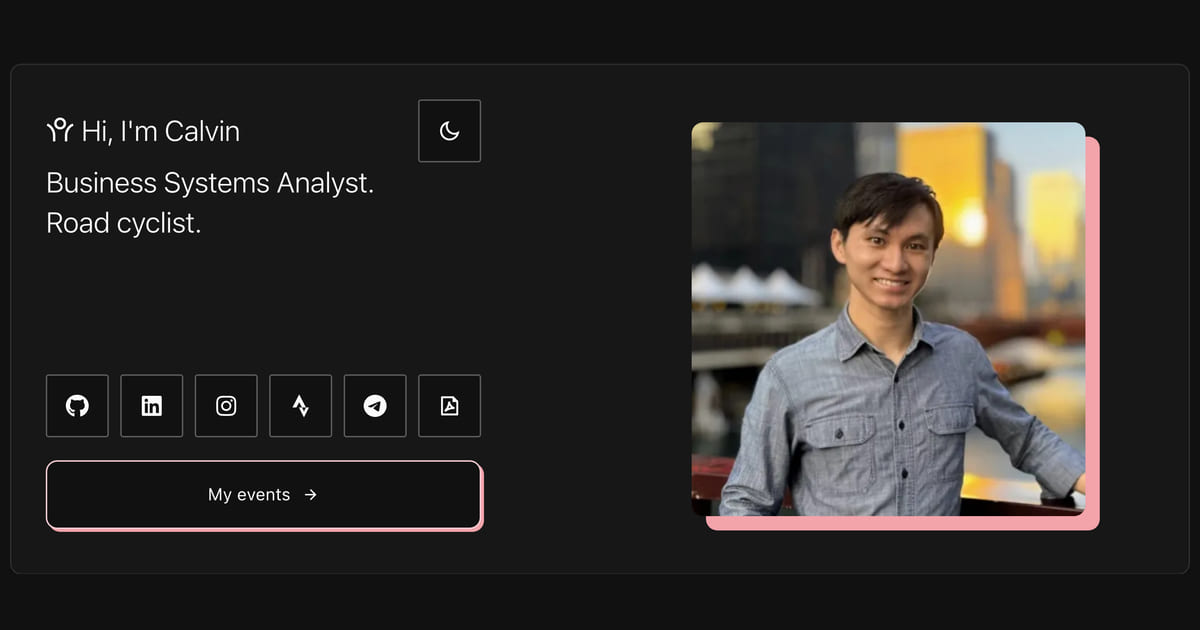
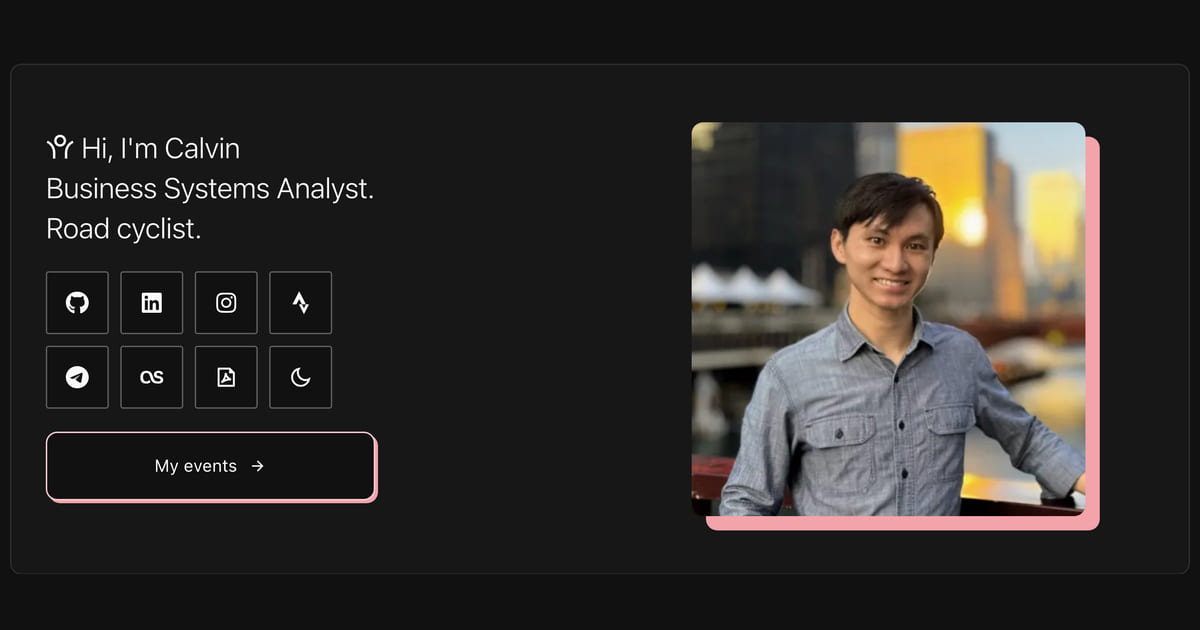
feat(home): lay the quiet controls out as a block, and give the toggle its cell
The theme control had no home on this page. Every other page carries it in a
banner header; this one has none by decision, so it sat on the greeting line —
and it could not hold that position. At `md` and up the copy column stretches and
the control landed on the column's right rail, but below `md` `.intro-type` is
`self-start` — load-bearing for the mobile hero, since stretching it drags the
scrim across the portrait, 97.55% of the photo veiled against 81.63% — so the row
is only as wide as the widest tagline and the control came to rest 74.5px short of
the rail everything else on the card shares. One control, two arrangements, and on
a phone it was aligned to a rail nothing else used.

It now sits with the other quiet controls, in a block laid out four cells to a row,
in the last cell.

THE FOUR-UP IS A GROUPING, NOT A COLUMN COUNT, and the distinction is the only
reason it is allowed. What `uno.config.ts` records and the geometry gate protects is
that no rule may GRANT this row a number of columns at a width — three media queries
once did, and a hand-tuned count against a text-relative box has to be re-tuned when
either side moves; it was wrong twice, and the second time sheared 136.84px of hero
copy at 320px and a 40px root. Nothing here reads a width: the cells are chunked
once, at every viewport and text size, and each row is still an ordinary wrapping
row whose minimum content width is one box. Swept at 320px from a 16px root to 40px:
[…]

diff --git a/tests/control-geometry.test.ts b/tests/control-geometry.test.ts
@@ -1317,23 +1317,51 @@ describe("the intro card's strip fits its column, whatever the reader's text siz
      * has grown a seventh box. The row assertions below would still pass in both cases —
      * a wrapping row is correct at any length — so nothing else here notices.
      */
-    it("holds one chip per destination, with the theme control outside it", () => {
-        const strip = chipStrip();
+    it("holds one cell per destination plus the preference, and the preference is last", () => {
         const NOT_RENDERED = new Set(["script", "style", "template", "link", "meta", "title"]);
-        const items = [...strip.children].filter((c) => !NOT_RENDERED.has(c.tagName.toLowerCase()));
-        expect(
-            items.map((el) => `<${el.tagName.toLowerCase()} class="${el.getAttribute("class")}">`),
-            "the strip must hold exactly one item per entry in `LINKS` and nothing else",
-        ).toHaveLength(LINKS.length);
+        const rows = chipRows().map(([el]) => [...el.children].filter((c) => !NOT_RENDERED.has(c.tagName.toLowerCase())));
+        const cells = rows.flat();
 
+        // ONE CELL PER DESTINATION, PLUS ONE. Derived from `LINKS` so a destination added or
+        // removed moves both sides at once; the `+ 1` is the preference and is named rather
+        // than absorbed, because it is the one cell that is not a destination.
+        expect(
+            cells.map((el) => `<${el.tagName.toLowerCase()} class="${el.getAttribute("class")}">`),
+            "the block must hold exactly one cell per entry in `LINKS`, plus the theme control, and nothing else",
+        ).toHaveLength(LINKS.length + 1);
+
+        /*
+         * THE PREFERENCE IS LAST, AND THAT POSITION IS THE ONLY THING MARKING IT OUT.
+         *
+         * It wears the same box as the destinations beside it, deliberately: the design system
+         * publishes this box as "a member of a set, where the marks are the vocabulary, and for
+         * a preference", the destinations are solid brand marks against its stroked UI mark, and
+         * it is a `button` where they are anchors. What it must never do is sit BETWEEN
+         * destinations — interleaved, the mark is the only thing left saying it is not one, and
+         * the reading a set gives its members would swallow it.
+         */
         const toggle = document.querySelector("#theme-toggle");
         expect(toggle, "the page must still carry a theme control").toBeTruthy();
         expect(
-            strip.contains(toggle),
-            "the theme control is back in the strip. It is a preference rather than a destination, "
-            + "and seven boxes of this size do not fit the copy column — the seventh wraps to a line "
-            + "of its own",
-        ).toBe(false);
+            cells.indexOf(toggle as Element),
+            "the theme control must be the LAST cell of the block. It is the one cell that is not "
+            + "a destination, and its position is what says so — interleaved among them, nothing "
+            + "but the mark distinguishes a preference from a place to go",
+        ).toBe(cells.length - 1);
+
+        /*
+         * NO ROW MAY OUTGROW THE FIRST. The rows are a GROUPING authored in the component —
+         * a fixed number of cells per row, applied at every width — and nothing here reads that
+         * number, so this asks the property instead: the first row is the widest the block gets.
+         * A row that grew past it would be the block silently re-flowing into a shape nobody
+         * chose, which is what a hand-tuned column count does when either side moves.
+         */
+        for (const [i, row] of rows.entries()) {
+            expect(
+                row.length,
+                `row ${i + 1} of the block holds ${row.length} cells against the first row's ${rows[0].length}`,
+            ).toBeLessThanOrEqual(rows[0].length);
+        }
     });
 
     /**
@@ -1444,36 +1472,60 @@ describe("the intro card's strip fits its column, whatever the reader's text siz
      * different page. Narrowing it here keeps the strip's own assertions (wrapping,
      * packing, the minimum-width bound) pointed at the box they were measured against.
      */
-    const chipStrip = () => {
+    /**
+     * EVERY ROW OF QUIET CONTROLS ON THIS PAGE, in document order.
+     *
+     * The quiet controls are laid out as a BLOCK of rows rather than as one row: the
+     * destinations are grouped a fixed number to a row and the preference takes the last
+     * cell. So there is no single "the strip" to find any more, and a helper that insisted
+     * on one would fail on a correct page — which is what the version this replaces did.
+     *
+     * Discovered as the parents of pinned chips, in document order, rather than by naming a
+     * class: this class has been renamed twice, and a gate keyed on a name certifies whatever
+     * it happens to find.
+     */
+    const chipRows = () => {
         const controls = elementsOf(pinned());
-        expect(controls.length, "no pinned-chip elements — every assertion about their strip would be vacuous").toBeGreaterThan(1);
+        expect(controls.length, "no pinned-chip elements — every assertion about their rows would be vacuous").toBeGreaterThan(1);
         const perParent = new Map<Element, Element[]>();
         for (const control of controls) {
             const parent = control.parentElement!;
             perParent.set(parent, [...(perParent.get(parent) ?? []), control]);
         }
-        /*
-         * A ROW IS A PARENT HOLDING MORE THAN ONE OF THEM, and the discrimination is not a
-         * convenience — it is the whole subject. Every argument below is about what a row of
-         * boxes does to the column that contains it, and a box that is ALONE in its parent has
-         * no row and no minimum-width claim to make. The theme control is exactly that: it
-         * wears the same box, sits on the greeting line opposite the identity, and is one item.
-         *
-         * Written as "the parent with more than one" rather than "the parent that is not the
-         * masthead", because a name is what rots — this class has been renamed twice — and
-         * because the property that matters really is the plurality. Exactly one such box may
-         * exist: two would mean "the strip" names more than one thing and every assertion below
-         * would cover whichever one it happened to find first, which is the failure mode the
-         * predecessor of this helper actually shipped.
-         */
-        const rows = [...perParent.entries()].filter(([, held]) => held.length > 1);
+        const rows = [...perParent.entries()];
+        expect(rows.length, "no parent holds a pinned chip — the block has stopped existing").toBeGreaterThan(0);
+        return rows;
+    };
+
+    /**
+     * ONE ROW STANDS FOR ALL OF THEM, AND THAT IS ASSERTED RATHER THAN ASSUMED.
+     *
+     * The arguments below — the row wraps, and it can never hold the copy column wider than
+     * one chip — are read out of the STYLESHEET and out of the chain of ancestors above the
+     * row. Both are decided by the row's class and by its parent, so rows that share a class
+     * and a parent are indistinguishable to every one of them, and checking each in turn would
+     * re-run the same resolution against the same inputs.
+     *
+     * So this returns the first row and PINS the premise: every row wears exactly the same
+     * class list and they are all siblings. Break either and the representative stops
+     * representing, and this fails rather than quietly covering one row of several — which is
+     * the failure mode the single-row helper this replaces actually shipped.
+     */
+    const chipStrip = () => {
+        const rows = chipRows().map(([el]) => el);
+        const classes = [...new Set(rows.map((el) => el.getAttribute("class") ?? ""))];
         expect(
-            rows.map(([el, held]) => `<${el.tagName.toLowerCase()} class="${el.getAttribute("class")}"> x${held.length}`),
-            "exactly one box on this page may hold a ROW of pinned chips. Zero means the strip has "
-            + "stopped being a row and every assertion below is vacuous; two means \"the strip\" names "
-            + "more than one box and the minimum-width argument covers only one of them",
+            classes,
+            "the rows of quiet controls do not all wear the same class, so the row checked below "
+            + "does not stand for the others and each would need resolving on its own",
         ).toHaveLength(1);
-        return rows[0][0];
+        const parents = [...new Set(rows.map((el) => el.parentElement))];
+        expect(
+            parents.map((p) => `<${p?.tagName.toLowerCase()} class="${p?.getAttribute("class")}">`),
+            "the rows of quiet controls are not siblings, so the chain of ancestors charged below "
+            + "is not the chain every row pays",
+        ).toHaveLength(1);
+        return rows[0];
     };
 
     /**

diff --git a/src/content/site.ts b/src/content/site.ts
@@ -93,6 +93,11 @@ export const LINKS: {
 }, {
     link: "https://t.me/calvindotsg/", logo: "fa6-brands:telegram", name: "Telegram Profile"
 }, {
+    // The one entry that is neither work nor sport. The rest of this list says what
+    // Calvin does; this says what he listens to, and it is a RECORD rather than a feed,
+    // which is the same shape as everything else this site publishes.
+    link: "https://last.fm/user/geektech510", logo: "fa6-brands:lastfm", name: "Last.fm Profile"
+}, {
     // "View", not "Download": the file opens in a tab rather than saving.
     link: "/resume.pdf", logo: "ri:file-pdf-2-line", name: "View résumé (PDF)"
 },];

diff --git a/tests/mobile-hero-contrast.test.ts b/tests/mobile-hero-contrast.test.ts
@@ -167,7 +167,7 @@ describe("mobile hero legibility", () => {
             + "block stretches to what it holds and the scrim is a pseudo-element of it, so a "
             + "full-width control inside drags the veil across the portrait").toBeNull();
 
-        const grounded = [wall!, ...document.querySelectorAll("main .link-strip a")];
+        const grounded = [wall!, ...document.querySelectorAll("main .link-strip a, main .link-strip button")];
         expect(grounded.length, "no control sits outside the scrim — this assertion would be vacuous")
             .toBeGreaterThan(1);
         const sheetRules = parseRules(sheet());

diff --git a/tests/content.test.ts b/tests/content.test.ts
@@ -602,7 +602,7 @@ describe("public/preview.jpg", () => {
 
         expect(fingerprint, "the intro card's content has changed, so public/preview.jpg now "
             + "disagrees with the page it is a render of. Regenerate it by the recipe above, then "
-            + `record the new fingerprint here: ${fingerprint}`).toBe("1719ed42abd3422c");
+            + `record the new fingerprint here: ${fingerprint}`).toBe("0e3396c20d7321bb");
     });
 });
 

diff --git a/CLAUDE.md b/CLAUDE.md
@@ -178,8 +178,9 @@ block above it before giving either consumer the other's list.
     and tracked wide: **a quiet control that names itself**. The wall's filter row,
     and every item in a page header
   - `chip-icon` — the same surface pinned at 44x44 for one mark: **one of a set, or
-    a preference**. The intro card's six destinations, and the theme toggle
-    everywhere it appears
+    a preference**. The intro card's block of destinations, and the theme toggle
+    everywhere it appears — including the last cell of that block, where nothing
+    marks it out but its own stroked mark, its `button` element and its position
 
   There is deliberately **no plated box for a mark alone**. There was one, worn nine
   times on the home page, and retiring it is what this vocabulary is: an action names
@@ -189,9 +190,13 @@ block above it before giving either consumer the other's list.
   content comes from data**; `tests/control-geometry.test.ts` discovers every
   control from ITS OWN surface's signature in the shipped sheet — one route per
   world, deliberately not collapsed, because a plate and a chip have different
-  contracts, plus a third for the intro card's strip, which is the one place a row
-  of them has to fit a column — and holds that line, so a further variant is caught
-  rather than skipped. Every link must carry a
+  contracts, plus a third for the intro card's block of quiet controls, which is the
+  one place a row of them has to fit a column — and holds that line, so a further
+  variant is caught rather than skipped. **That block groups its cells a fixed number
+  to a row and this is a GROUPING, not a column count**: nothing reads a width, each
+  row is still an ordinary wrapping row whose minimum is one box, and the preference
+  takes the last cell whatever `LINKS` holds. The count that is forbidden is the one
+  a media query grants. Every link must carry a
   signifier a reader can perceive, and a build-wide gate in
   `tests/build-output.test.ts` walks every `<a>` on every page to enforce it — its
   absence let five links ship drawn exactly like the prose beside them. A bib's stub

diff --git a/DESIGN.md b/DESIGN.md
@@ -126,13 +126,13 @@ Don't:
 
 Every mark here is in the stylesheet because some page uses it, so the set grows with the site rather than ahead of it. Nothing outside this set is available: a class with no rule renders as a mask box at zero size, which is an absent icon with correct markup and a green build.
 
-These 19 ship and no others. Remix Icon (14):
+These 20 ship and no others. Remix Icon (14):
 
 `i-ri-arrow-left-line`, `i-ri-arrow-right-line`, `i-ri-file-list-3-line`, `i-ri-file-pdf-2-line`, `i-ri-heart-fill`, `i-ri-information-line`, `i-ri-markdown-line`, `i-ri-moon-line`, `i-ri-open-arm-line`, `i-ri-riding-line`, `i-ri-run-line`, `i-ri-search-line`, `i-ri-sun-line`, `i-ri-tools-line`.
 
-Brand marks (5):
+Brand marks (6):
 
-`i-fa6-brands-github`, `i-fa6-brands-instagram`, `i-fa6-brands-linkedin`, `i-fa6-brands-strava`, `i-fa6-brands-telegram`.
+`i-fa6-brands-github`, `i-fa6-brands-instagram`, `i-fa6-brands-lastfm`, `i-fa6-brands-linkedin`, `i-fa6-brands-strava`, `i-fa6-brands-telegram`.
 
 Do:
 

diff --git a/.design-sync/conventions.md b/.design-sync/conventions.md
@@ -60,4 +60,4 @@ Don't:
 
 ## Marks
 
-19 marks ship and no others, each a `.i-` class sized with `font-size`.
+20 marks ship and no others, each a `.i-` class sized with `font-size`.
